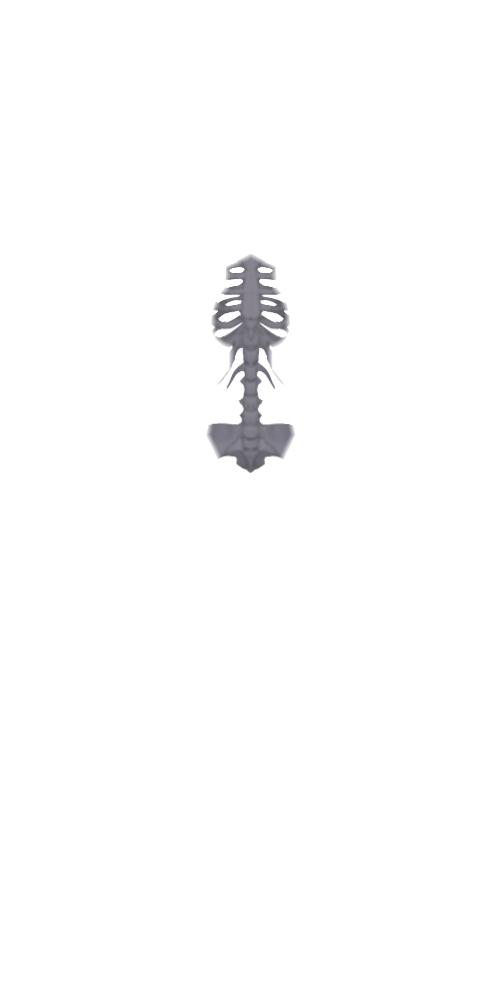
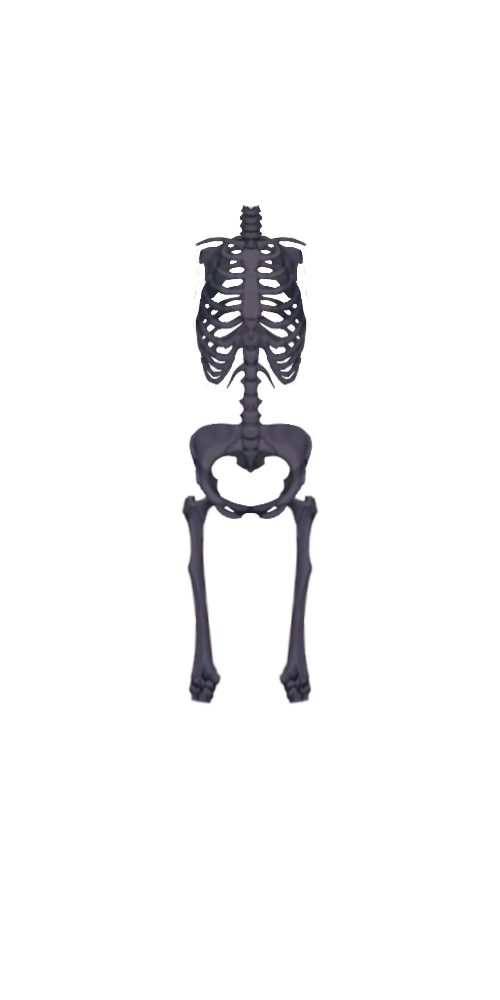
feat: 细化生化人身体

Changed region(s): [[0.36, 0.186, 0.63, 0.713]]

diff --git a/packages/mod/src/components/衣服和装饰/动物身体/生化人体.js b/packages/mod/src/components/衣服和装饰/动物身体/生化人体.js
@@ -1,6 +1,100 @@
 import AssetManager from "@mod-utils/AssetManager";
 import ModManager from "@mod-utils/ModManager";
 
+const NamePrefix = ((prefix) => prefix + Math.random().toString(16).substring(2))("生化人体");
+
+/**
+ *
+ * @param {Character} C
+ * @param {Asset} asset
+ * @param {Number} width
+ * @param {Number} height
+ * @param {string} suffix
+ * @returns
+ */
+function customTempCanvas(C, asset, width, height, suffix) {
+    const canvas = document.createElement("canvas");
+    canvas.setAttribute("name", `${NamePrefix}__${C.CharacterID}__${asset.Group.Name}__${asset.Name}__${suffix}`);
+    canvas.width = width;
+    canvas.height = height;
+    return canvas;
+}
+
+/**
+ * 绘制其他身体部位
+ * @param {Character} C
+ * @param {Asset} TempCanvasAsset
+ * @param {CustomGroupName[]} DrawGroupNames
+ */
+function partialDraw(C, TempCanvasAsset, DrawGroupNames) {
+    const oldDrawCanvas = GLDrawCanvas;
+
+    GLDrawCanvas = customTempCanvas(C, TempCanvasAsset, CanvasDrawWidth, CanvasDrawHeight, "GLDrawCanvas");
+    /** @type {Character} */
+    const copyC = {
+        ...C,
+        CharacterID: "npc-partial-draw",
+        Appearance: C.Appearance.filter((a) => DrawGroupNames.includes(a.Asset.Group.Name)),
+    };
+    copyC.Canvas = customTempCanvas(C, TempCanvasAsset, CanvasDrawWidth, CanvasDrawHeight, "Canvas");
+    copyC.CanvasBlink = customTempCanvas(C, TempCanvasAsset, CanvasDrawWidth, CanvasDrawHeight, "CanvasBlink");
+    copyC.DrawAppearance = AppearanceItemParse(CharacterAppearanceStringify(copyC));
+    copyC.AppearanceLayers = CharacterAppearanceSortLayers(copyC);
+    copyC.Appearance = C.Appearance;
+
+    CharacterAppearanceBuildCanvas(copyC);
+
+    GLDrawCanvas = oldDrawCanvas;
+    return { Canvas: copyC.Canvas, CanvasBlink: copyC.CanvasBlink };
+}
+
+/**
+ * @param {Character} C
+ * @param {Asset} Asset
+ * @param {string} LayerName
+ * @param {AssetPoseName} Pose
+ * @param {string} ParentAssetName
+ * @param {string} [OverrideName]
+ */
+function getMaskURL(C, Asset, LayerName, Pose, ParentAssetName, OverrideName) {
+    const layer = Asset.Layer.find((l) => l.Name === LayerName);
+
+    let poseSegment = layer.PoseMapping[Pose];
+    switch (poseSegment) {
+        case PoseType.HIDE:
+        case PoseType.DEFAULT:
+        case undefined:
+            poseSegment = "";
+            break;
+        default:
+            poseSegment += "/";
+            break;
+    }
+
+    const urlParts = [asset.Name, ParentAssetName, OverrideName ?? LayerName].filter((c) => c);
+
+    return `Assets/${Asset.Group.Family}/${Asset.Group.Name}/${poseSegment}${urlParts.join("_")}.png`;
+}
+
+/** @type {ExtendedItemCallbacks.AfterDraw<{}>} */
+function androidDraw({ C, A, X, Y, Pose, drawCanvas, drawCanvasBlink, AlphaMasks, L, G }) {
+    if (L === "上身遮罩" || L === "下身遮罩") {
+        const { Canvas, CanvasBlink } = partialDraw(
+            C,
+            A,
+            L === "上身遮罩" ? ["BodyUpper", "ArmsLeft", "ArmsRight"] : ["BodyLower"]
+        );
+
+        const maskURL = getMaskURL(C, A, L, Pose, G, "身体遮罩");
+
+        DrawImageEx(maskURL, Canvas.getContext("2d"), X, Y, { BlendingMode: "destination-out" });
+        DrawImageEx(maskURL, CanvasBlink.getContext("2d"), X, Y, { BlendingMode: "destination-out" });
+
+        drawCanvas(Canvas, 0, 0, AlphaMasks);
+        drawCanvasBlink(CanvasBlink, 0, 0, AlphaMasks);
+    }
+}
+
 /** @type {CustomAssetDefinition} */
 const asset = {
     Name: "生化人体",
@@ -8,71 +102,59 @@ const asset = {
     Top: 0,
     Left: 0,
     Priority: 9,
+    Gender: "F",
     Expose: ["ItemVulva", "ItemVulvaPiercings", "ItemButt"],
-    DefaultColor: ["Default"],
+    DefaultColor: ["Default", "Default", "Default"],
     PoseMapping: {
         Hogtied: PoseType.HIDE,
         AllFours: PoseType.HIDE,
     },
+    DynamicAfterDraw: true,
     ParentGroup: null,
-    AllowColorize: false,
+    AllowColorize: true,
+    Hide: ["BodyUpper", "BodyLower", "ArmsLeft", "ArmsRight", "Nipples"],
     Layer: [
         {
             Name: "骨架",
+            PoseMapping: {
+                Kneel: "LegsClosed",
+                LegsClosed: "LegsClosed",
+                Spread: "Spread",
+                KneelingSpread: "KneelingSpread",
+                Hogtied: PoseType.HIDE,
+                AllFours: PoseType.HIDE,
+            },
+            Priority: 5,
         },
         {
             Name: "阴道",
+            Priority: 6,
         },
         {
-            Name: "擦除身体",
-            BlendingMode: "destination-out",
+            Name: "上身遮罩",
+            ParentGroup: "BodyUpper",
+            Priority: 7,
+            AllowColorize: false,
+            HasImage: false,
+        },
+        {
+            Name: "下身遮罩",
+            ParentGroup: "BodyLower",
+            Priority: 7,
+            AllowColorize: false,
+            HasImage: false,
         },
         {
             Name: "网格",
+            Priority: 9,
         },
     ],
 };
 
-/**
- * 增强 BlendingMode 支持
- * @param {WebGL2RenderingContext} gl
- * @param {GlobalCompositeOperation} blendingMode
- */
-function blendingModeExt(gl, blendingMode) {
-    switch (blendingMode) {
-        case "source-over":
-            gl.blendFuncSeparate(gl.SRC_ALPHA, gl.ONE_MINUS_SRC_ALPHA, gl.ONE, gl.ONE_MINUS_SRC_ALPHA);
-            break;
-        case "source-in":
-            gl.blendFuncSeparate(gl.DST_ALPHA, gl.ZERO, gl.ZERO, gl.ONE);
-            break;
-        case "source-out":
-            gl.blendFuncSeparate(gl.ZERO, gl.ONE_MINUS_SRC_ALPHA, gl.ZERO, gl.ONE_MINUS_SRC_ALPHA);
-            break;
-        case "source-atop":
-            gl.blendFuncSeparate(gl.DST_ALPHA, gl.ONE_MINUS_SRC_ALPHA, gl.ZERO, gl.ONE);
-            break;
-        case "destination-over":
-            gl.blendFuncSeparate(gl.ONE_MINUS_DST_ALPHA, gl.ONE, gl.ONE, gl.ONE_MINUS_SRC_ALPHA);
-            break;
-        case "destination-in":
-            gl.blendFuncSeparate(gl.ZERO, gl.SRC_ALPHA, gl.DST_ALPHA, gl.SRC_ALPHA);
-            break;
-        case "destination-out":
-            gl.blendFuncSeparate(gl.ZERO, gl.ONE_MINUS_SRC_ALPHA, gl.ZERO, gl.ONE_MINUS_SRC_ALPHA);
-            break;
-        case "destination-atop":
-            gl.blendFuncSeparate(gl.ONE_MINUS_DST_ALPHA, gl.SRC_ALPHA, gl.ZERO, gl.ONE);
-            break;
-    }
-}
-
 export default function () {
-    const func = ModManager.randomGlobalFunction("blendingModeExt", blendingModeExt);
+    const assetGroup = "动物身体_Luzi";
 
-    ModManager.patchFunction("GLDrawImage", {
-        [`gl.bindBuffer(gl.ARRAY_BUFFER, program.position_buffer);`]: `${func}(gl,blendingMode); gl.bindBuffer(gl.ARRAY_BUFFER, program.position_buffer);`,
-    });
+    ModManager.globalFunction(`Assets${assetGroup}${asset.Name}AfterDraw`, androidDraw);
 
-    AssetManager.addAsset("动物身体_Luzi", asset);
+    AssetManager.addAsset(assetGroup, asset);
 }
